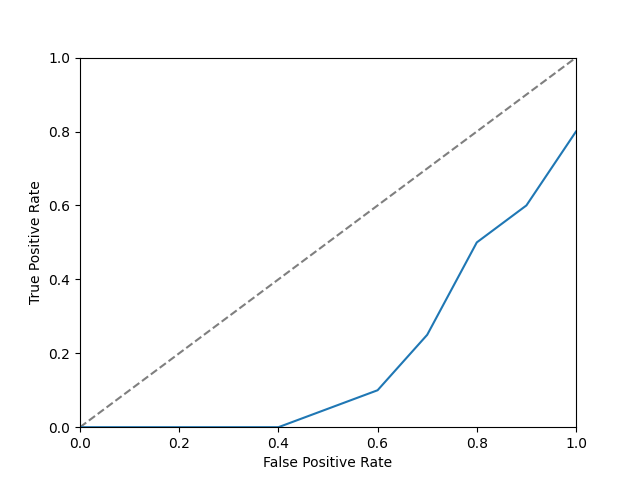
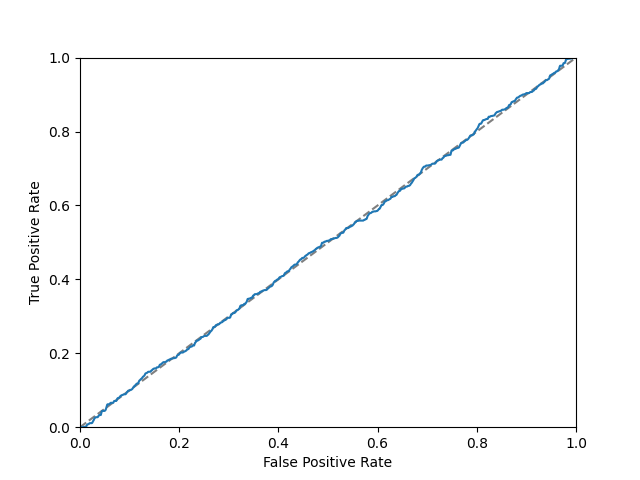
added option for max sequence length

diff --git a/utils.py b/utils.py
@@ -51,22 +51,22 @@ def generate_neighbors(text, search_tokenizer, search_model, search_embedder, p=
     return neighborhood
 
 
-def get_loss(text, label, tokenizer, model, causal=False):
-    tokenized = tokenizer(text, padding=True, truncation=True, return_tensors='pt')
+def get_loss(text, label, tokenizer, model, max_length, causal=False):
+    tokenized = tokenizer(text, padding=True, truncation=True, max_length=max_length, return_tensors='pt')
     tokenized['labels'] = tokenized['input_ids'] if causal else torch.tensor([label])
     for k, v in tokenized.items():
         tokenized[k] = v.to('cuda')
     return model(**tokenized).loss.item()
 
 
-def get_neighborhood_score(text, label, target_tokenizer, target_model, search_tokenizer, search_model, search_embedder, causal=False):
-    original_score = get_loss(text, label, target_tokenizer, target_model, causal=causal)
+def get_neighborhood_score(text, label, target_tokenizer, target_model, search_tokenizer, search_model, search_embedder, max_length, causal=False):
+    original_score = get_loss(text, label, target_tokenizer, target_model, max_length, causal=causal)
 
     # Compute log likelihood for each neighbor in the neighborhood
     neighbor_scores = []
     neighbors = generate_neighbors(text, search_tokenizer, search_model, search_embedder)
     for n in neighbors:
-        neighbor_scores.append(get_loss(n, label, target_tokenizer, target_model, causal=causal))
+        neighbor_scores.append(get_loss(n, label, target_tokenizer, target_model, max_length, causal=causal))
     mean_neighbor_score = sum(neighbor_scores) / len(neighbor_scores)
 
     return original_score - mean_neighbor_score

diff --git a/main.py b/main.py
@@ -11,6 +11,7 @@ parser = argparse.ArgumentParser()
 parser.add_argument('--model', type=str, choices=['gpt2', 'bert'], default='gpt2')
 parser.add_argument('--search', type=str, choices=['bert', 'distilbert', 'roberta'], default='bert')
 parser.add_argument('--num_iters', type=int, default=1_000)
+parser.add_argument('--max_length', type=int, default=64)
 args = parser.parse_args()
 
 dataset = load_dataset('ag_news')
@@ -56,8 +57,8 @@ def eval(name):
         text = data['text']
         label = data['label']
         with torch.no_grad():
-            loss += get_loss(text, label, tokenizer, model, causal=causal)
-            score = get_neighborhood_score(text, label, tokenizer, model, search_tokenizer, search_model, search_embedder, causal=causal)
+            loss += get_loss(text, label, tokenizer, model, args.max_length, causal=causal)
+            score = get_neighborhood_score(text, label, tokenizer, model, search_tokenizer, search_model, search_embedder, args.max_length, causal=causal)
         scores.append(score)
     print('Loss:', loss / args.num_iters)
     return scores
